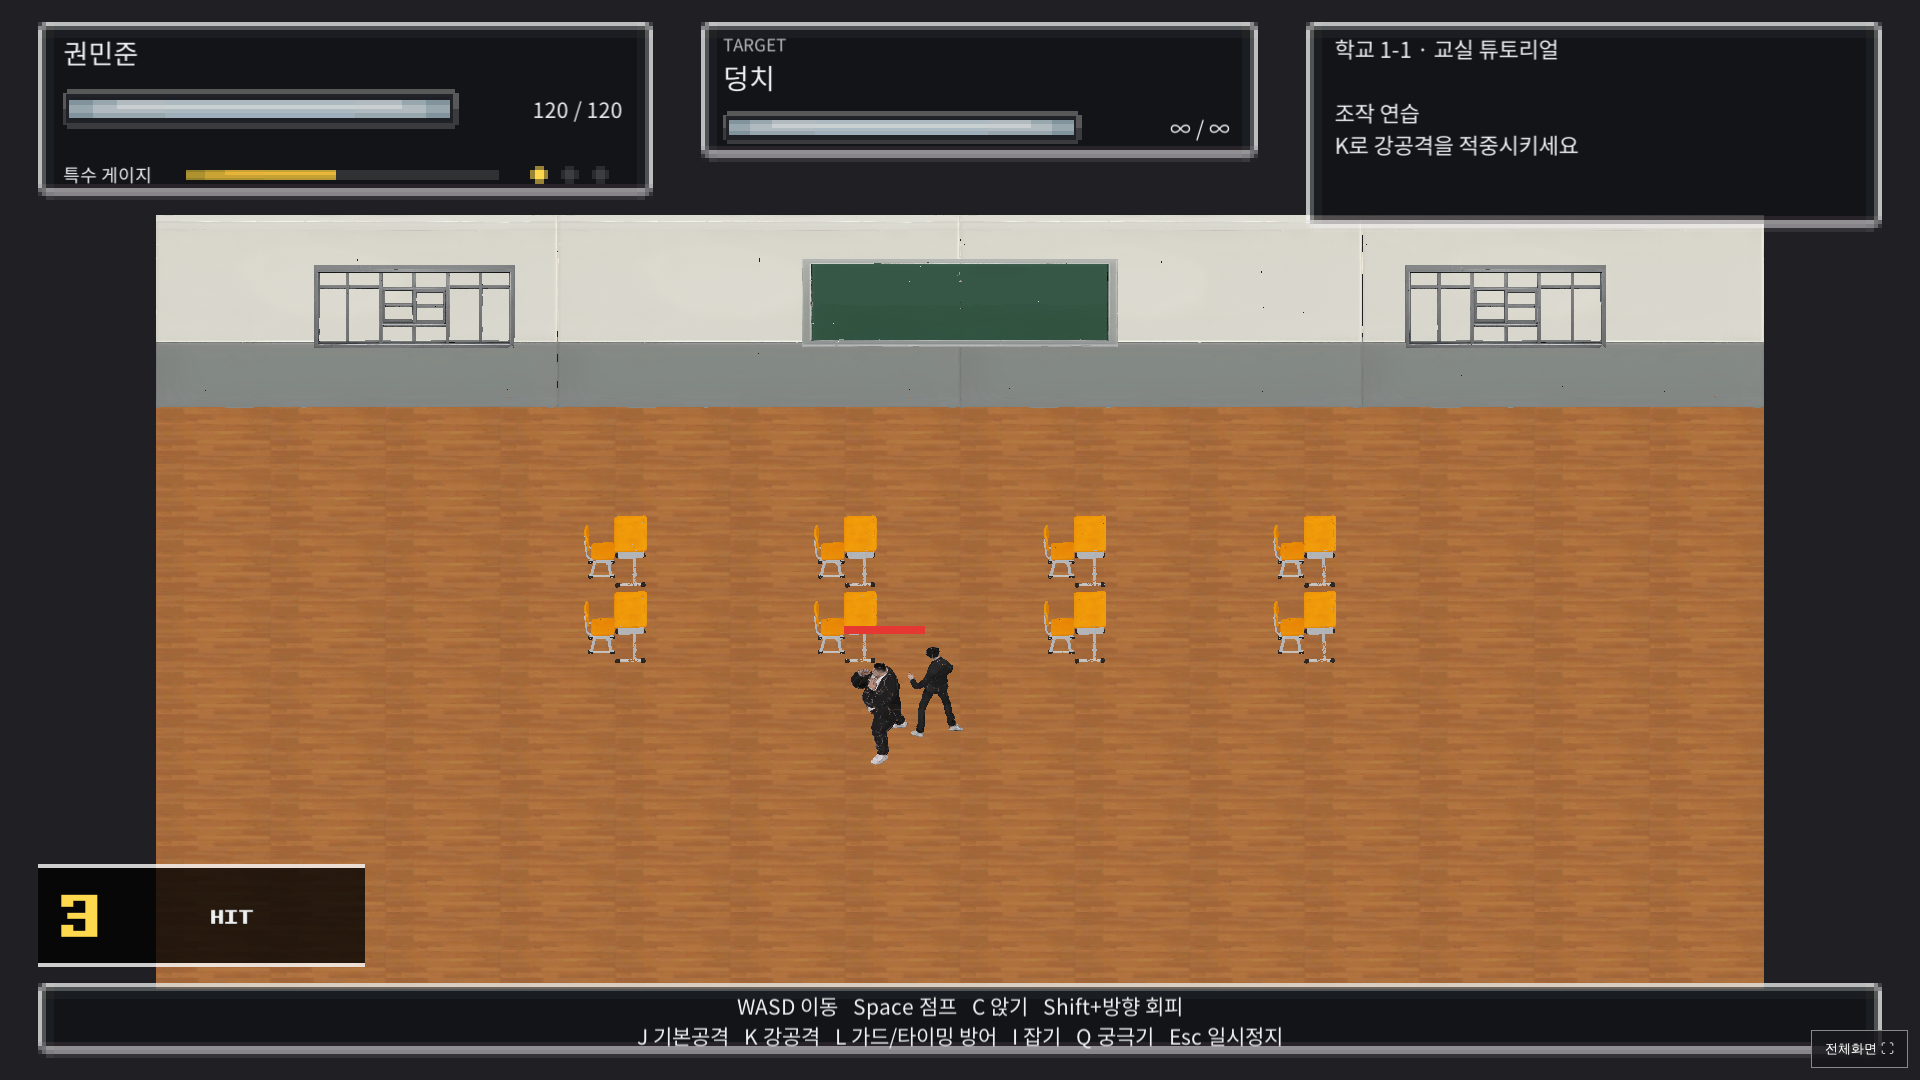
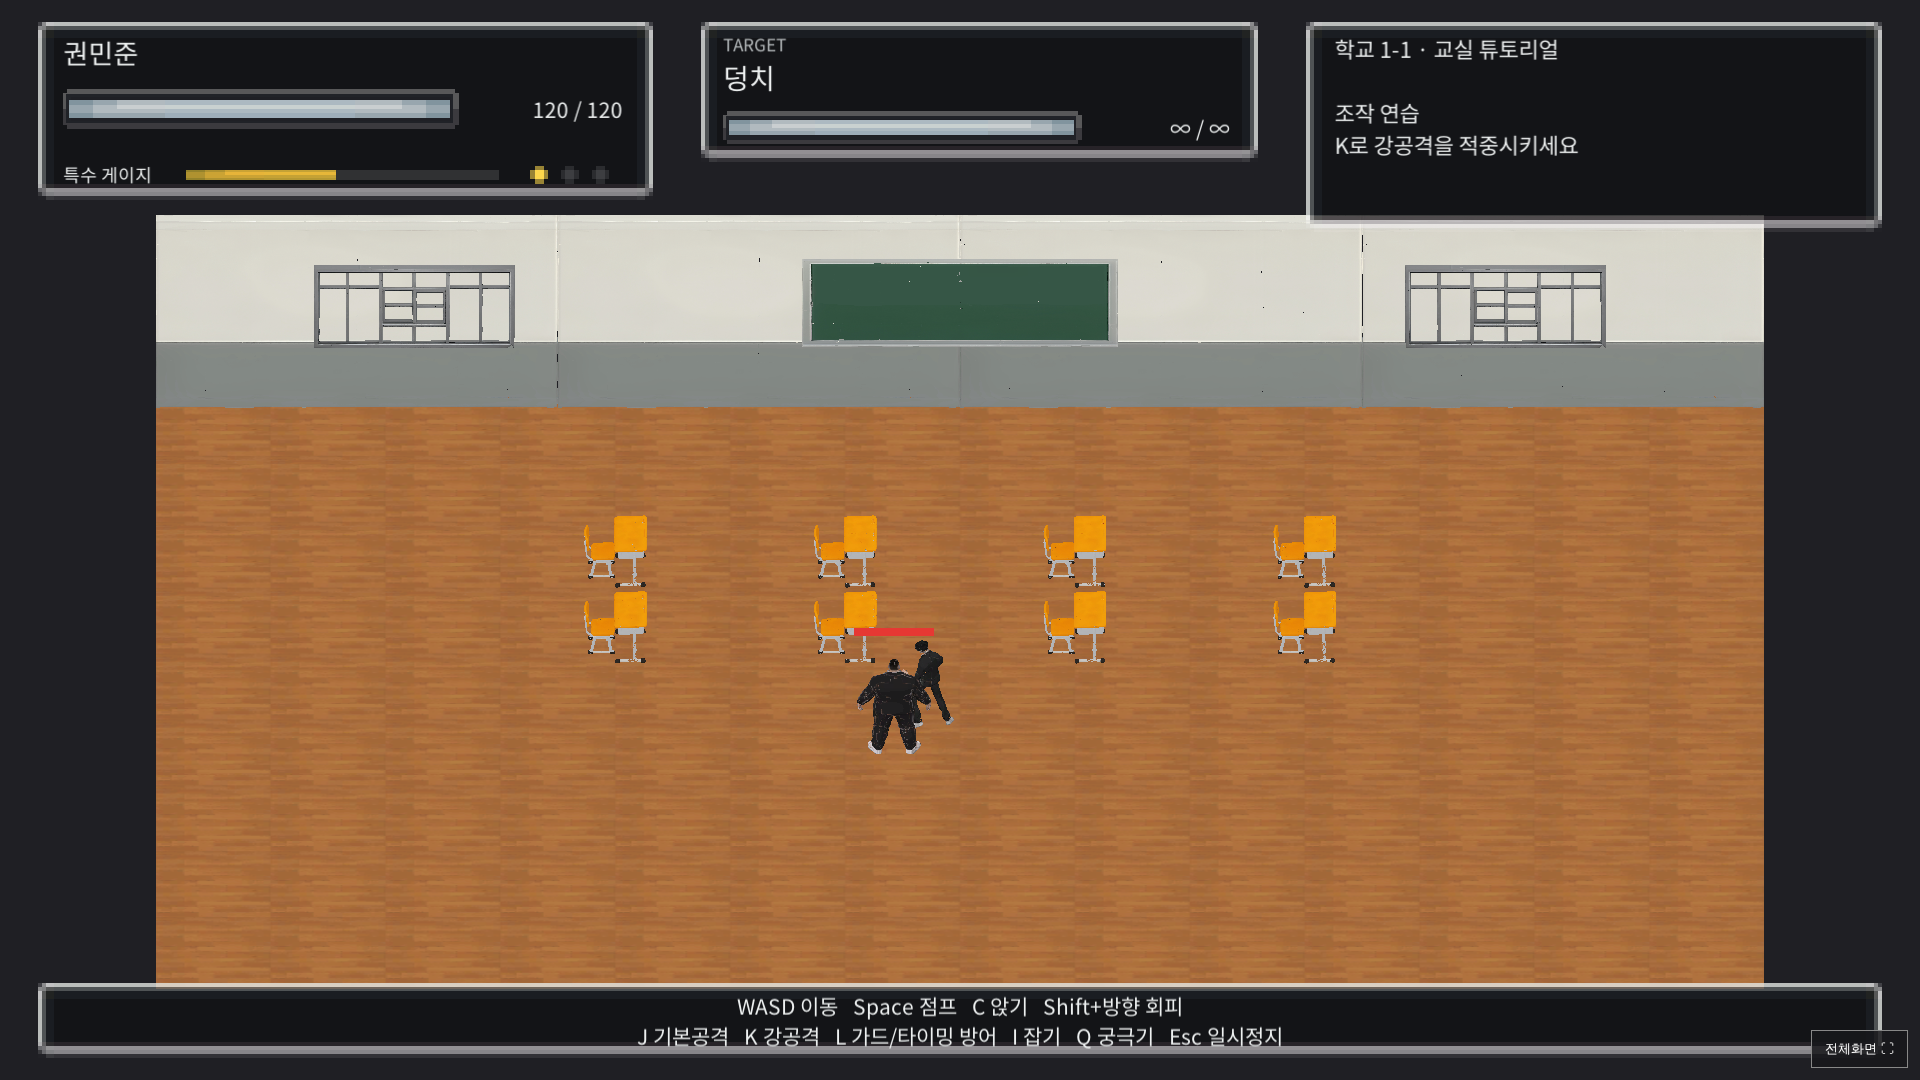
Record supplied-only animation and opening motion verification [skip ci]

Changed region(s): [[0.0, 0.7944, 0.1875, 0.9167], [0.4375, 0.5806, 0.5, 0.7028]]

diff --git a/Docs/Motion/selection.md b/Docs/Motion/selection.md
@@ -61,3 +61,5 @@
 사용자 요청에 따라 플레이어의 절차식 모션 복사 경로를 삭제했다. 제공되지 않은 앉기·회피·잡기·3타 뒤후리기는 제공된 FightingIdle을 유지하며 전투 판정은 유지한다. 기존 플레이어·덩치·임시 NPC의 절차식 런타임 애니메이션을 중지했고, 도입부 전체 몸체를 65도 기울이던 가짜 수면 연출도 제거했다. 덩치 전용 제공 모션이 연결되기 전에는 정적 모델로 표시한다. 이전 절차식 코드의 직접 미리보기는 회귀 테스트에서만 사용되며 실제 게임에서는 실행되지 않는다.
 
 사용자가 제공한 Sitting과 SitToStand을 시작 연출에 연결했다. 기존 전체 몸체 기울이기 대신 제공 모션을 재생한다. 착석용 의자는 제공된 자세의 골반 높이에 맞춘 임시 좌석이며, 일어나기 완료 후 전투 준비 자세로 전환한다.
+
+최종 검수: 6e171d8 Unity WebGL 빌드 및 실제 브라우저 테스트 통과. 모션 검수 2회(각 536개), HUD 4해상도(각 398개), 합계 2,664개 검사 통과. 실제 시작 연출에서 Sitting과 SitToStand 재생을 관찰했고 조작 복귀 및 3타 임의 모션 미사용을 확인했다. 런타임 예외 0건. 착석·기립 화면은 Images/opening-sitting.png와 Images/opening-standing.png에 보관했다.
